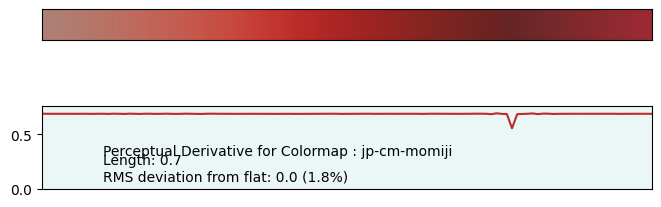
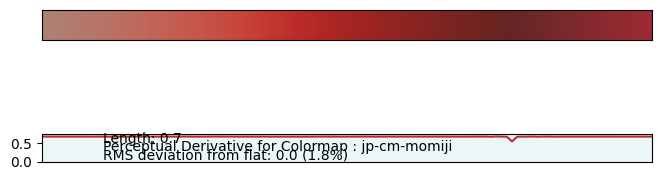
update readme

diff --git a/gen/gen.py b/gen/gen.py
@@ -81,6 +81,9 @@ def delta_ymax(values):
     return max(np.max(values)*1.1, 0)
 
 def fitD(gradient):
+    """
+    (Lifted from https://github.com/1313e/viscm/blob/master/viscm/gui.py)
+    """
     local_deltas = np.sqrt(np.sum(np.diff(gradient, axis=0)**2, axis=-1))
     local_derivs = (len(local_deltas)-1)*local_deltas
     return local_deltas,local_derivs
@@ -88,11 +91,11 @@ def fitD(gradient):
 def calculatePD(gradient, RGB, name):
     """
     Calculate and plot colormap with perceptual derivative.
-    (Lifted from https://github.com/1313e/viscm/blob/master/viscm/gui.py)
     """
+    n_keys = int(len(gradient)/discretization)
 
     fig,_ = colour.plotting.plot_multi_colour_swatches(
-        [colour.plotting.ColourSwatch(RGB=np.clip(x, 0, 1)) for x in RGB], height = 2*int(len(gradient)/discretization))
+        [colour.plotting.ColourSwatch(RGB=np.clip(x, 0, 1)) for x in RGB], height = 2*n_keys)
     
     ax = fig.add_subplot(212)
 
@@ -109,7 +112,7 @@ def calculatePD(gradient, RGB, name):
     ax.get_xaxis().set_visible(False)
     ax.margins(0.0)
     ax.set_facecolor(aijiro)
-    ax.set_aspect(16/delta_ymax(local_derivs))
+    ax.set_aspect(16/(delta_ymax(local_derivs)*n_keys))
     return fig
 
 def gen_cmaps(cmaps,segmented=False):
